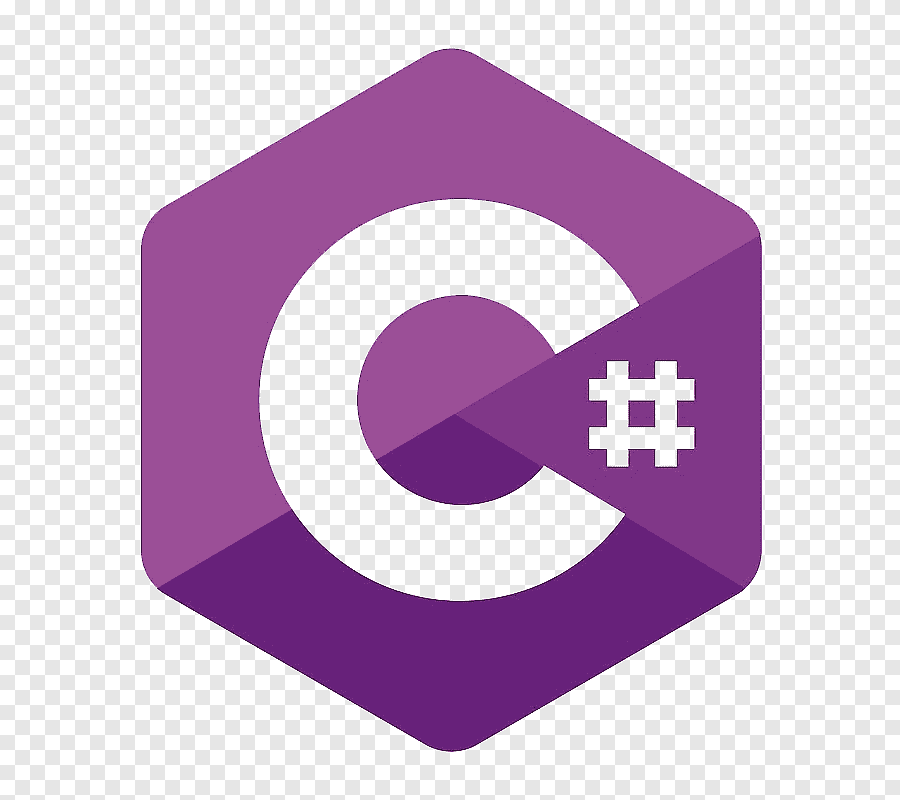
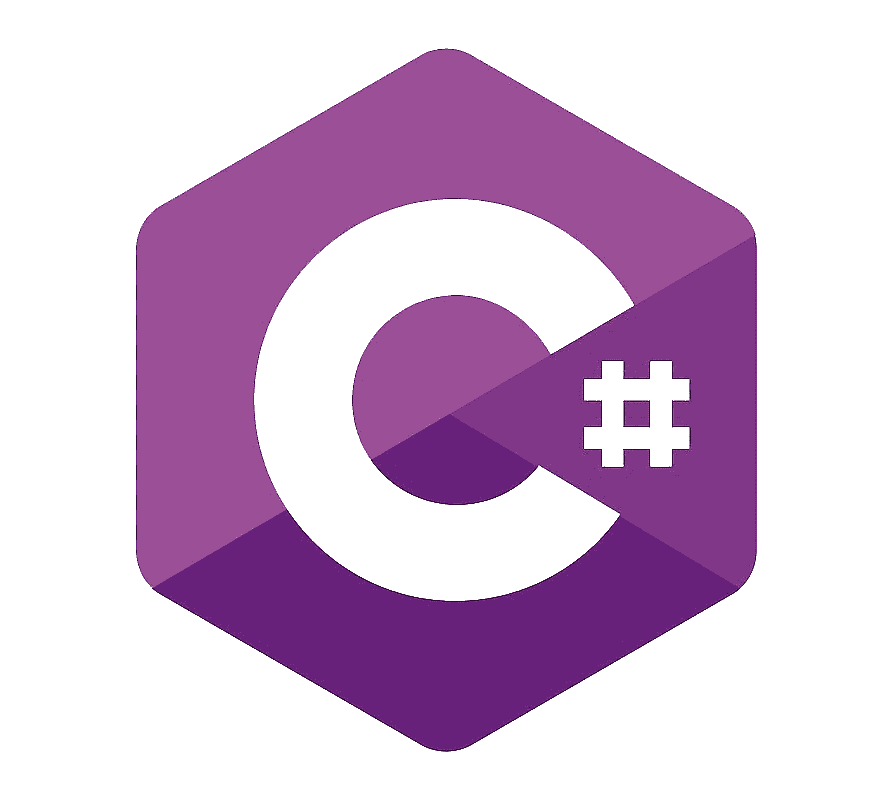
Add images to results.

diff --git a/index.html b/index.html
@@ -80,22 +80,22 @@
 
       <div id="c#" class="hidden">
         <p>Hi, <span id="c#-user-name"></span>! You should study the <strong>C# programming language</strong>. C# was developed at Microsoft in the early 2000s and is a general-purpose high-level object-oriented programming language. C# was the eighth most popular programming language among professional developers in <a href="https://survey.stackoverflow.co/2023/">Stack Overflow's 2023 survey</a>. The Unity game engine uses C#, and it is also the back-end language taught at Epicodus (along with HTML/CSS and JavaScript for front-end development)!</p>
-        <img src="img/python.png" alt="C# logo" class="image-box">
+        <img src="img/csharp.png" alt="C# logo" class="image-box">
       </div>
 
       <div id="c++" class="hidden">
         <p>Hi, <span id="c++-user-name"></span>! You should study the <strong>C++ programming language</strong>. C++ was developed at Bell Labs in the late 1970s, as an extension to the C programming language, and released in the mid 1980s. C++ was the ninth most popular programming language among professional developers in <a href="https://survey.stackoverflow.co/2023/">Stack Overflow's 2023 survey</a>. It is used in operating systems including MacOS, iOS and Windows, in databases like MySQL and MongoDB, and in videogame engines like the Unreal Engine.</p>
-        <img class="image-box">
+        <img src="img/cplusplus.png" class="image-box">
       </div>
 
       <div id="python" class="hidden">
         <p >Hi, <span id="python-user-name"></span>! You should study the <strong>Python programming language</strong>. Python was developed in the late 1980s and released in the early 1990s. Python is used in a wide range of applications and industries. It's particularly popular in data science as well as FinTech companies. It was the fourth most popular language among professional developers in <a href="https://survey.stackoverflow.co/2023/">Stack Overflow's 2023 survey</a>. And its name was inspired by the BBC television comedy sketch series "Monty Python's Flying Circus".</p>
-        <img class="image-box">
+        <img src="img/python.png" alt="Python logo" class="image-box">
       </div>
 
       <div id="algorithm" class="hidden">
         <p>Wow, <span id="algorithm-user-name"></span>! What a unique individual you are. Our algorithm was not able to compute a result based on your responses. Even though you indicated that you are not interested in enrolling at Epicodus, we strongly suggest you reconsider and study the <strong>C# programming language</strong>. Once you've completed the course, please apply for a job with us and help us improve our survey!</p>
-        <img class="image-box">
+        <img src="img/epicodus-logo.png" class="image-box2">
       </div>
     </div>
   </div>

diff --git a/css/styles.css b/css/styles.css
@@ -42,3 +42,8 @@ body {
   height: 100px;
   width: 100px;
 }
+
+.image-box2 {
+  height: 100px;
+  width: 200px;
+}
